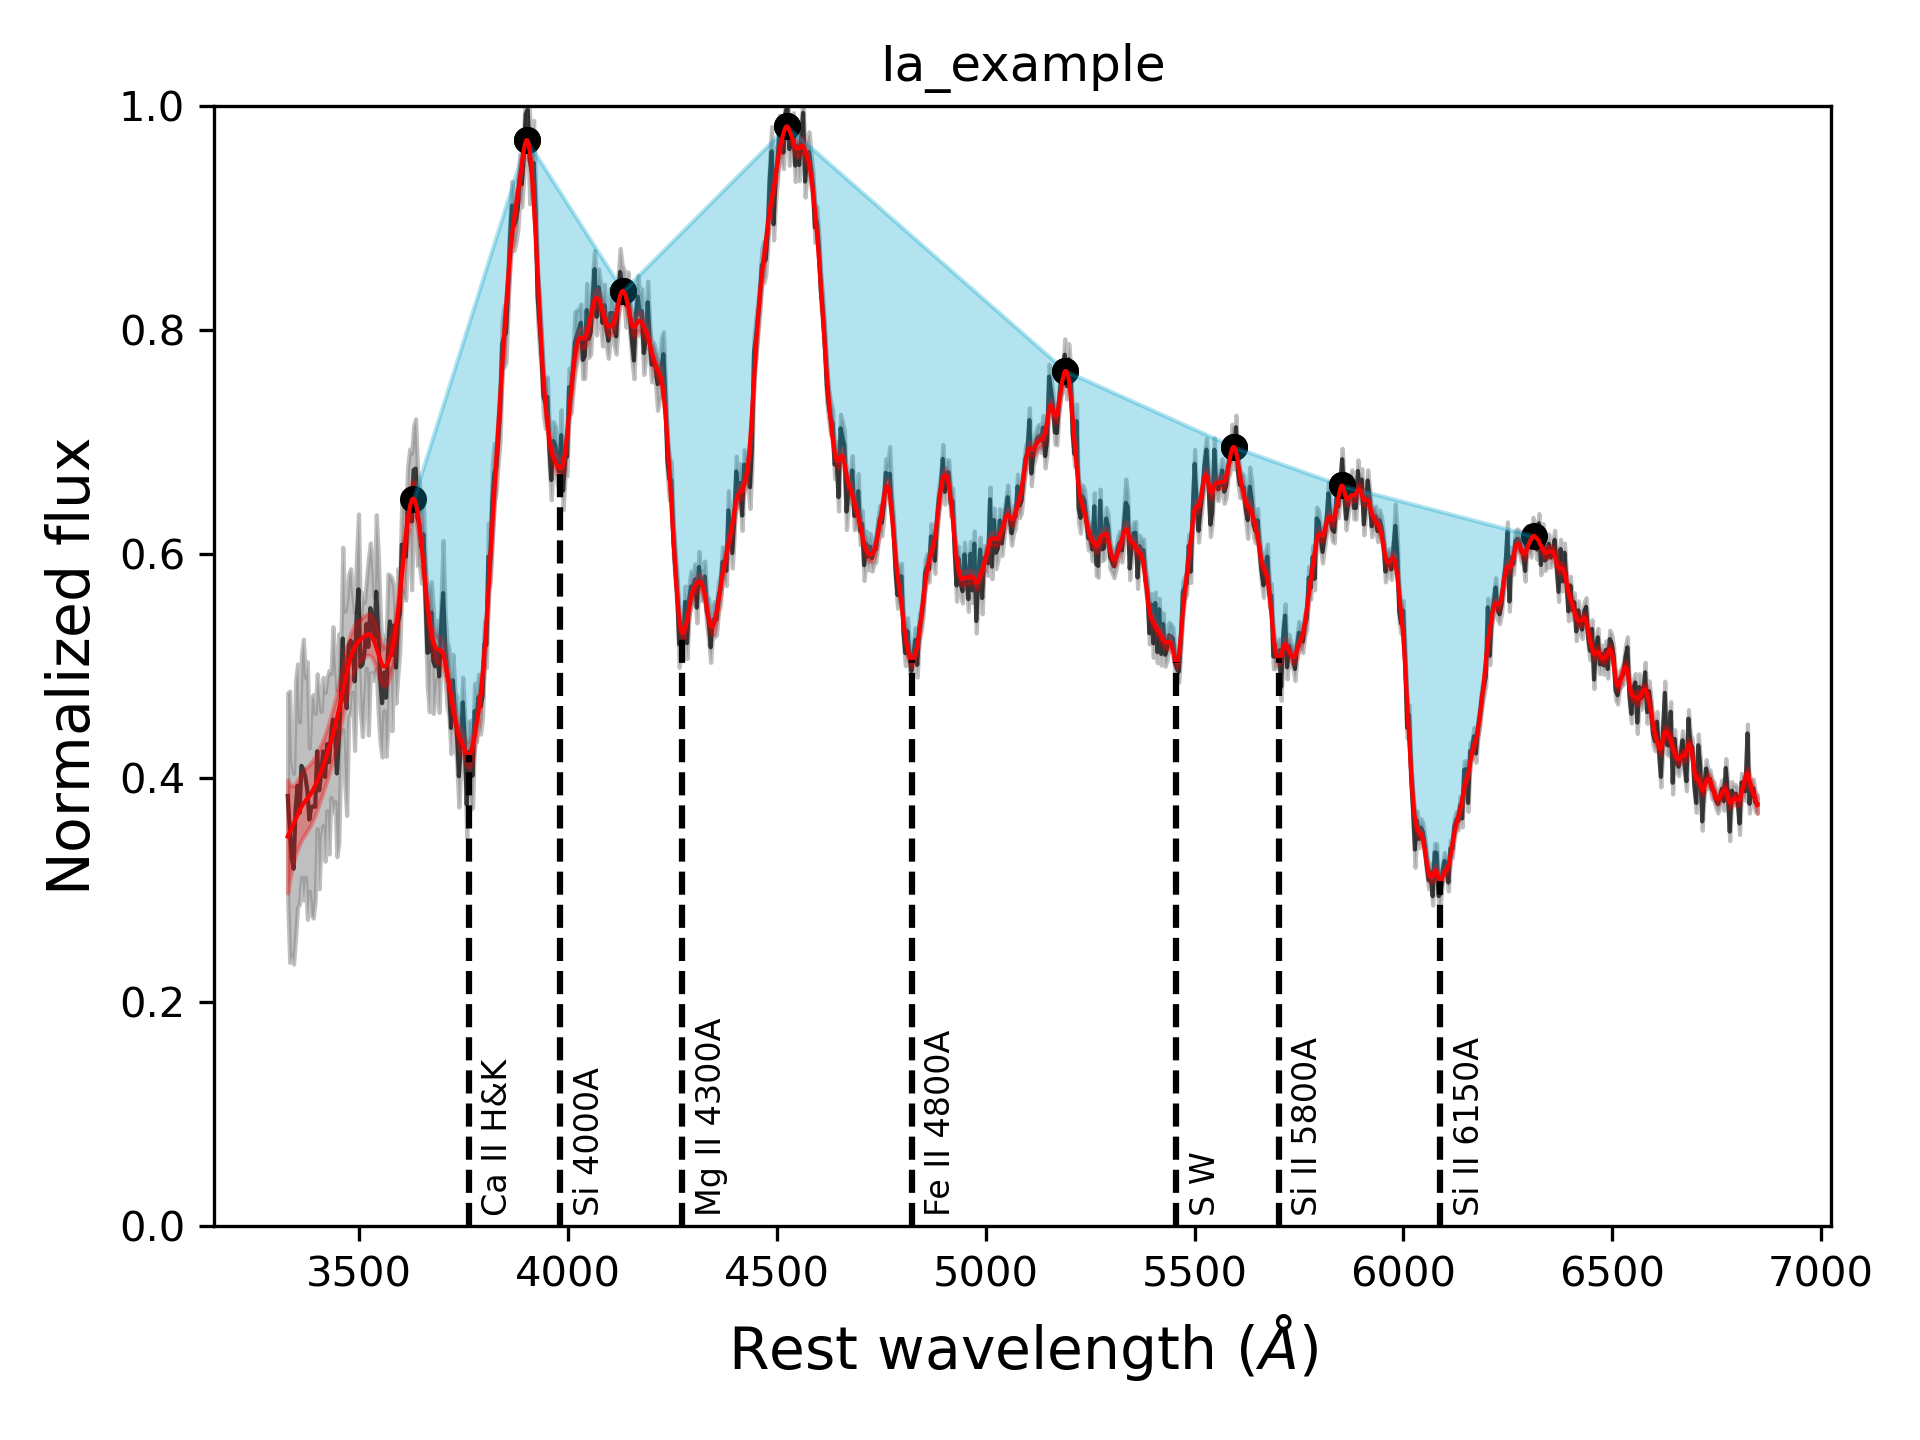
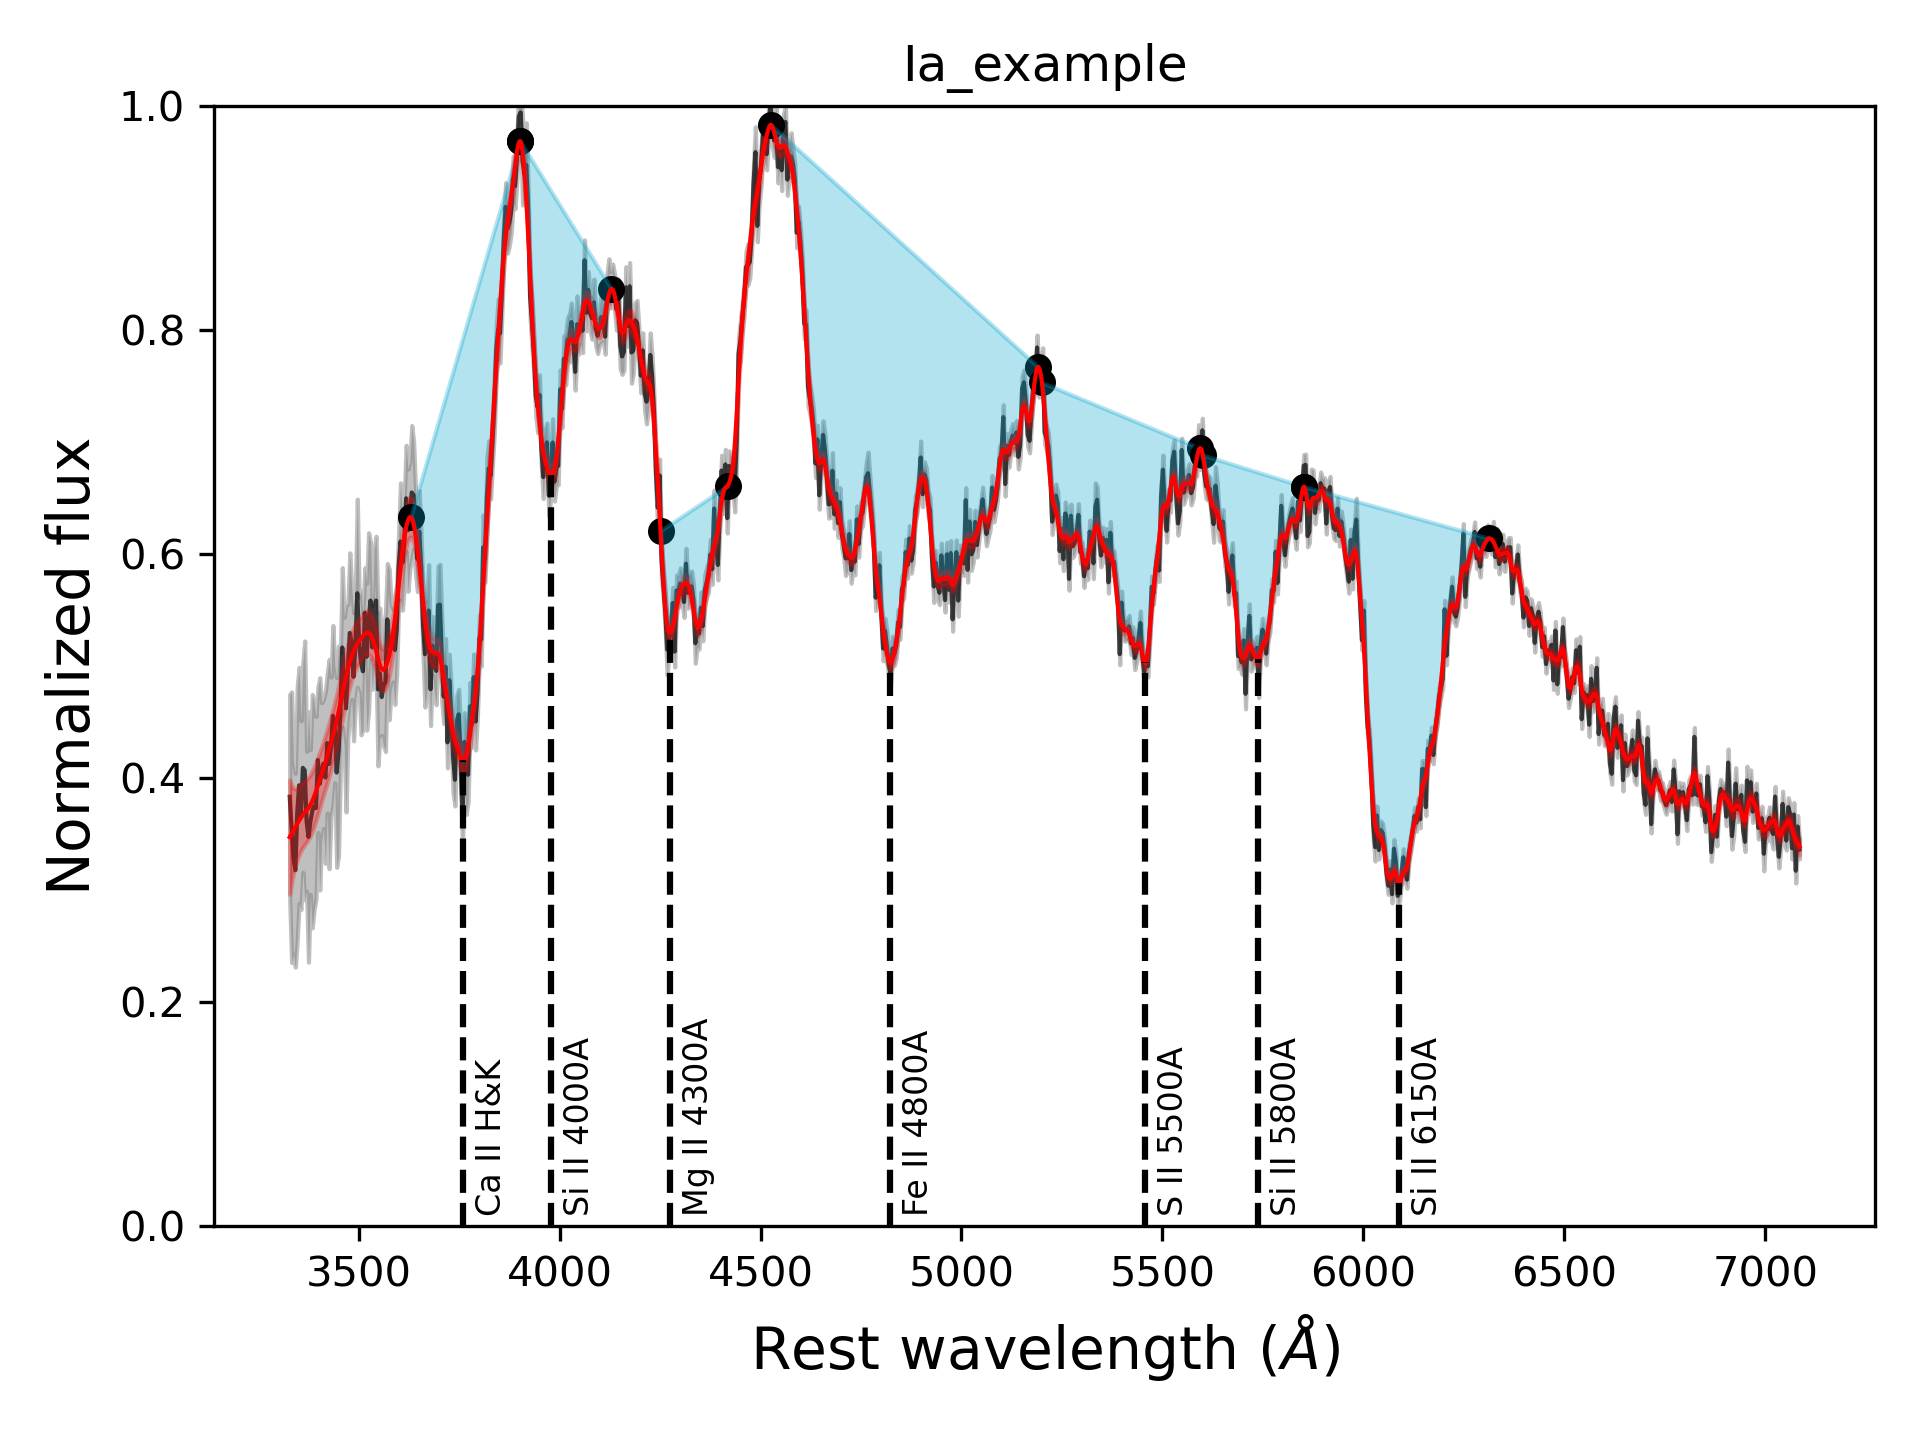
clean up preprocessing

diff --git a/spextractor/spextractor.py b/spextractor/spextractor.py
@@ -1,12 +1,11 @@
 import numpy as np
 import time
 
-from snpy.utils.deredden import unred
-
 from .util.io import load_spectra
+from .util.preprocessing import preprocess
 from .util.log import setup_log
 from .util.manual import ManualRange
-from .physics import doppler, feature
+from .physics import feature
 from .physics.lines import get_features
 from .physics.downsample import downsample
 from .math import interpolate, gpr
@@ -15,7 +14,7 @@ from .math import interpolate, gpr
 class Spextractor:
 
     def __init__(self, data, z=None, sn_type='Ia', manual_range=False,
-                 remove_zeroes=True, auto_prune=True, auto_prune_excess=250.,
+                 remove_zeroes=True, auto_prune=False, auto_prune_excess=250.,
                  prune_window=None, host_EBV=None, host_RV=None, MW_EBV=None,
                  MW_RV=3.1, outlier_downsampling=20., normalize=True,
                  verbose=False):
@@ -40,7 +39,7 @@ class Spextractor:
             set.
         auto_prune : bool, optional
             Uninclude data points outside of the minimum/maximum feature ranges
-            specified in "./physics/lines.py".
+            specified in "./physics/lines.py". Default is False.
         auto_prune_excess : float, optional
             A buffer (in Angstroms) to each side of the auto-pruning window.
             This is 250. by default.
@@ -70,12 +69,6 @@ class Spextractor:
             log_fn = f'{data.rsplit(".", 1)[0]:s}.log'
         self._logger = setup_log(log_fn, verbose)
 
-        self.wave, self.flux, self.flux_err = self._setup_data(data)
-        self.wave = doppler.deredshift(self.wave, z=z)
-
-        if remove_zeroes:
-            self._remove_zeroes()
-
         if isinstance(sn_type, str):
             self._features = get_features(sn_type)
         else:
@@ -86,12 +79,13 @@ class Spextractor:
             m = ManualRange(self.wave, self.flux, self._features, self._logger)
             self._features = m.def_lines
 
-        if prune_window is not None:
-            self._prune(prune_window)
-        elif auto_prune:
-            self._auto_prune(auto_prune_excess)
+        if auto_prune:
+            prune_window = self._get_auto_prune_window(auto_prune_excess)
 
-        self._deredden(H_EBV=host_EBV, H_RV=host_RV, MW_EBV=MW_EBV, MW_RV=MW_RV)
+        self.wave, self.flux, self.flux_err = \
+            self._setup_data(data, z=z, wave_range=prune_window,
+                             H_EBV=host_EBV, H_RV=host_RV,
+                             MW_EBV=MW_EBV, MW_RV=MW_RV)
 
         self._normalize = normalize
         self.fmax_in = self.flux.max()
@@ -346,23 +340,22 @@ class Spextractor:
 
         return self._fig, self._ax
 
-    def _setup_data(self, data):
+    def _setup_data(self, data, *args, **kwargs):
         """Set up flux (with uncertainty) and wavelength data."""
         if isinstance(data, str):
             self._logger.info(f'Loading data from {data:s}\n')
-            return load_spectra(data)
+            data = load_spectra(data)
 
-        nan_mask = ~np.isnan(data).any(axis=1)
-        data = data[nan_mask]
+        data = preprocess(data, *args, **kwargs)
 
         wave = data[:, 0]
         flux = data[:, 1]
         try:
             flux_err = data[:, 2]
         except IndexError:
-            msg = 'No flux uncertainties found while reading file.'
+            msg = 'No flux uncertainties found.'
             self._logger.info(msg)
-            flux_err = np.zeros(len(flux))
+            flux_err = np.zeros_like(flux)
 
         return wave, flux, flux_err
 
@@ -377,24 +370,7 @@ class Spextractor:
         if np.any(self.flux_err):
             self.flux_err /= max_flux
 
-    def _deredden(self, H_EBV=None, H_RV=None, MW_EBV=None, MW_RV=3.1):
-        """Correct for MW and Host extinction."""
-        # MW extinction
-        if MW_EBV is not None and MW_EBV != 0. and MW_RV is not None:
-            self.flux, _a, _b = unred(self.wave, self.flux, MW_EBV, R_V=MW_RV)
-
-        # Host extinction
-        if H_EBV is not None and H_EBV != 0. and H_RV is not None:
-            self.flux, _a, _b = unred(self.wave, self.flux, H_EBV, R_V=H_RV)
-
-    def _remove_zeroes(self):
-        """Remove zero-flux values."""
-        mask = self.flux != 0
-        self.wave = self.wave[mask]
-        self.flux_err = self.flux_err[mask]
-        self.flux = self.flux[mask]
-
-    def _auto_prune(self, prune_excess):
+    def _get_auto_prune_window(self, prune_excess):
         """Remove data outside feature range (for less computation)."""
         wav_min = min(self._features[li]['lo_range'][0] for li in self._features)
         wav_max = max(self._features[li]['hi_range'][1] for li in self._features)

diff --git a/spextractor/util/preprocessing.py b/spextractor/util/preprocessing.py
@@ -1,0 +1,58 @@
+import numpy as np
+
+from ..physics.doppler import deredshift
+
+_can_deredden = True
+try:
+    from snpy.utils.deredden import unred
+except ModuleNotFoundError:
+    print('SNooPy not detected; unable to deredden spectra')
+    _can_deredden = False
+
+
+def preprocess(data, *args, **kwargs):
+    data = remove_nan(data)
+    data = remove_zeros(data)
+
+    data = deredshift(data, *args, **kwargs)
+    data = prune(data, *args, **kwargs)
+    data = deredden(data, *args, **kwargs)
+
+    return data
+
+
+def remove_nan(data):
+    """Remove NaN values."""
+    nan_mask = ~np.isnan(data).any(axis=1)
+    return data[nan_mask]
+
+
+def remove_zeros(data):
+    """Remove zero-flux values."""
+    mask = data[:, 1] != 0.
+    return data[mask]
+
+
+def prune(data, wave_range=None, *args, **kwargs):
+    if wave_range is None:
+        return data
+
+    mask = (wave_range[0] <= data[:, 0]) & (data[:, 0] <= wave_range[1])
+    return data[mask]
+
+
+def deredden(data, H_EBV=None, H_RV=None, MW_EBV=None, MW_RV=3.1,
+             *args, **kwargs):
+    """Correct for extinction."""
+    if not _can_deredden:
+        return data
+
+    # Milky Way extinction
+    if MW_EBV is not None and MW_EBV != 0. and MW_RV is not None:
+        data[:, 1], _a, _b = unred(data[:, 0], data[:, 1], MW_EBV, R_V=MW_RV)
+
+    # Host extinction
+    if H_EBV is not None and H_EBV != 0. and H_RV is not None:
+        data[:, 1], _a, _b = unred(data[:, 0], data[:, 1], H_EBV, R_V=H_RV)
+
+    return data

diff --git a/spextractor/util/io.py b/spextractor/util/io.py
@@ -92,7 +92,7 @@ def _load_fits(filename):
 
     flux_err = np.zeros(len(flux))
 
-    return wavel, flux, flux_err
+    return np.c_[wavel, flux, flux_err]
 
 
 def _load_other(filename):
@@ -112,19 +112,4 @@ def _load_other(filename):
             print(prev.message, e.message, filename)
             raise e
 
-    nan_mask = ~np.isnan(data).any(axis=1)
-    data = data[nan_mask]
-
-    wavel = data[:, 0]
-    flux = data[:, 1]
-
-    try:
-        flux_err = data[:, 2]
-    except IndexError:
-        print('No flux uncertainties found while reading file')
-        flux_err = np.zeros(len(flux))
-
-    if np.all(isna(flux_err)):
-        flux_err = np.zeros(len(flux_err))
-
-    return wavel, flux, flux_err
+    return data

diff --git a/spextractor/physics/doppler.py b/spextractor/physics/doppler.py
@@ -1,12 +1,14 @@
 c = 299.792458   # 10^3 km/s
 
 
-def deredshift(wave, z=None):
+def deredshift(data, z=None, *args, **kwargs):
     """De-redshift wavelength values."""
     if z is None:
-        return wave
+        return data
 
-    return wave / (z + 1.)
+    data[:, 0] /= (z + 1.)
+
+    return data
 
 
 def velocity(lam, lam_err, lam0):
